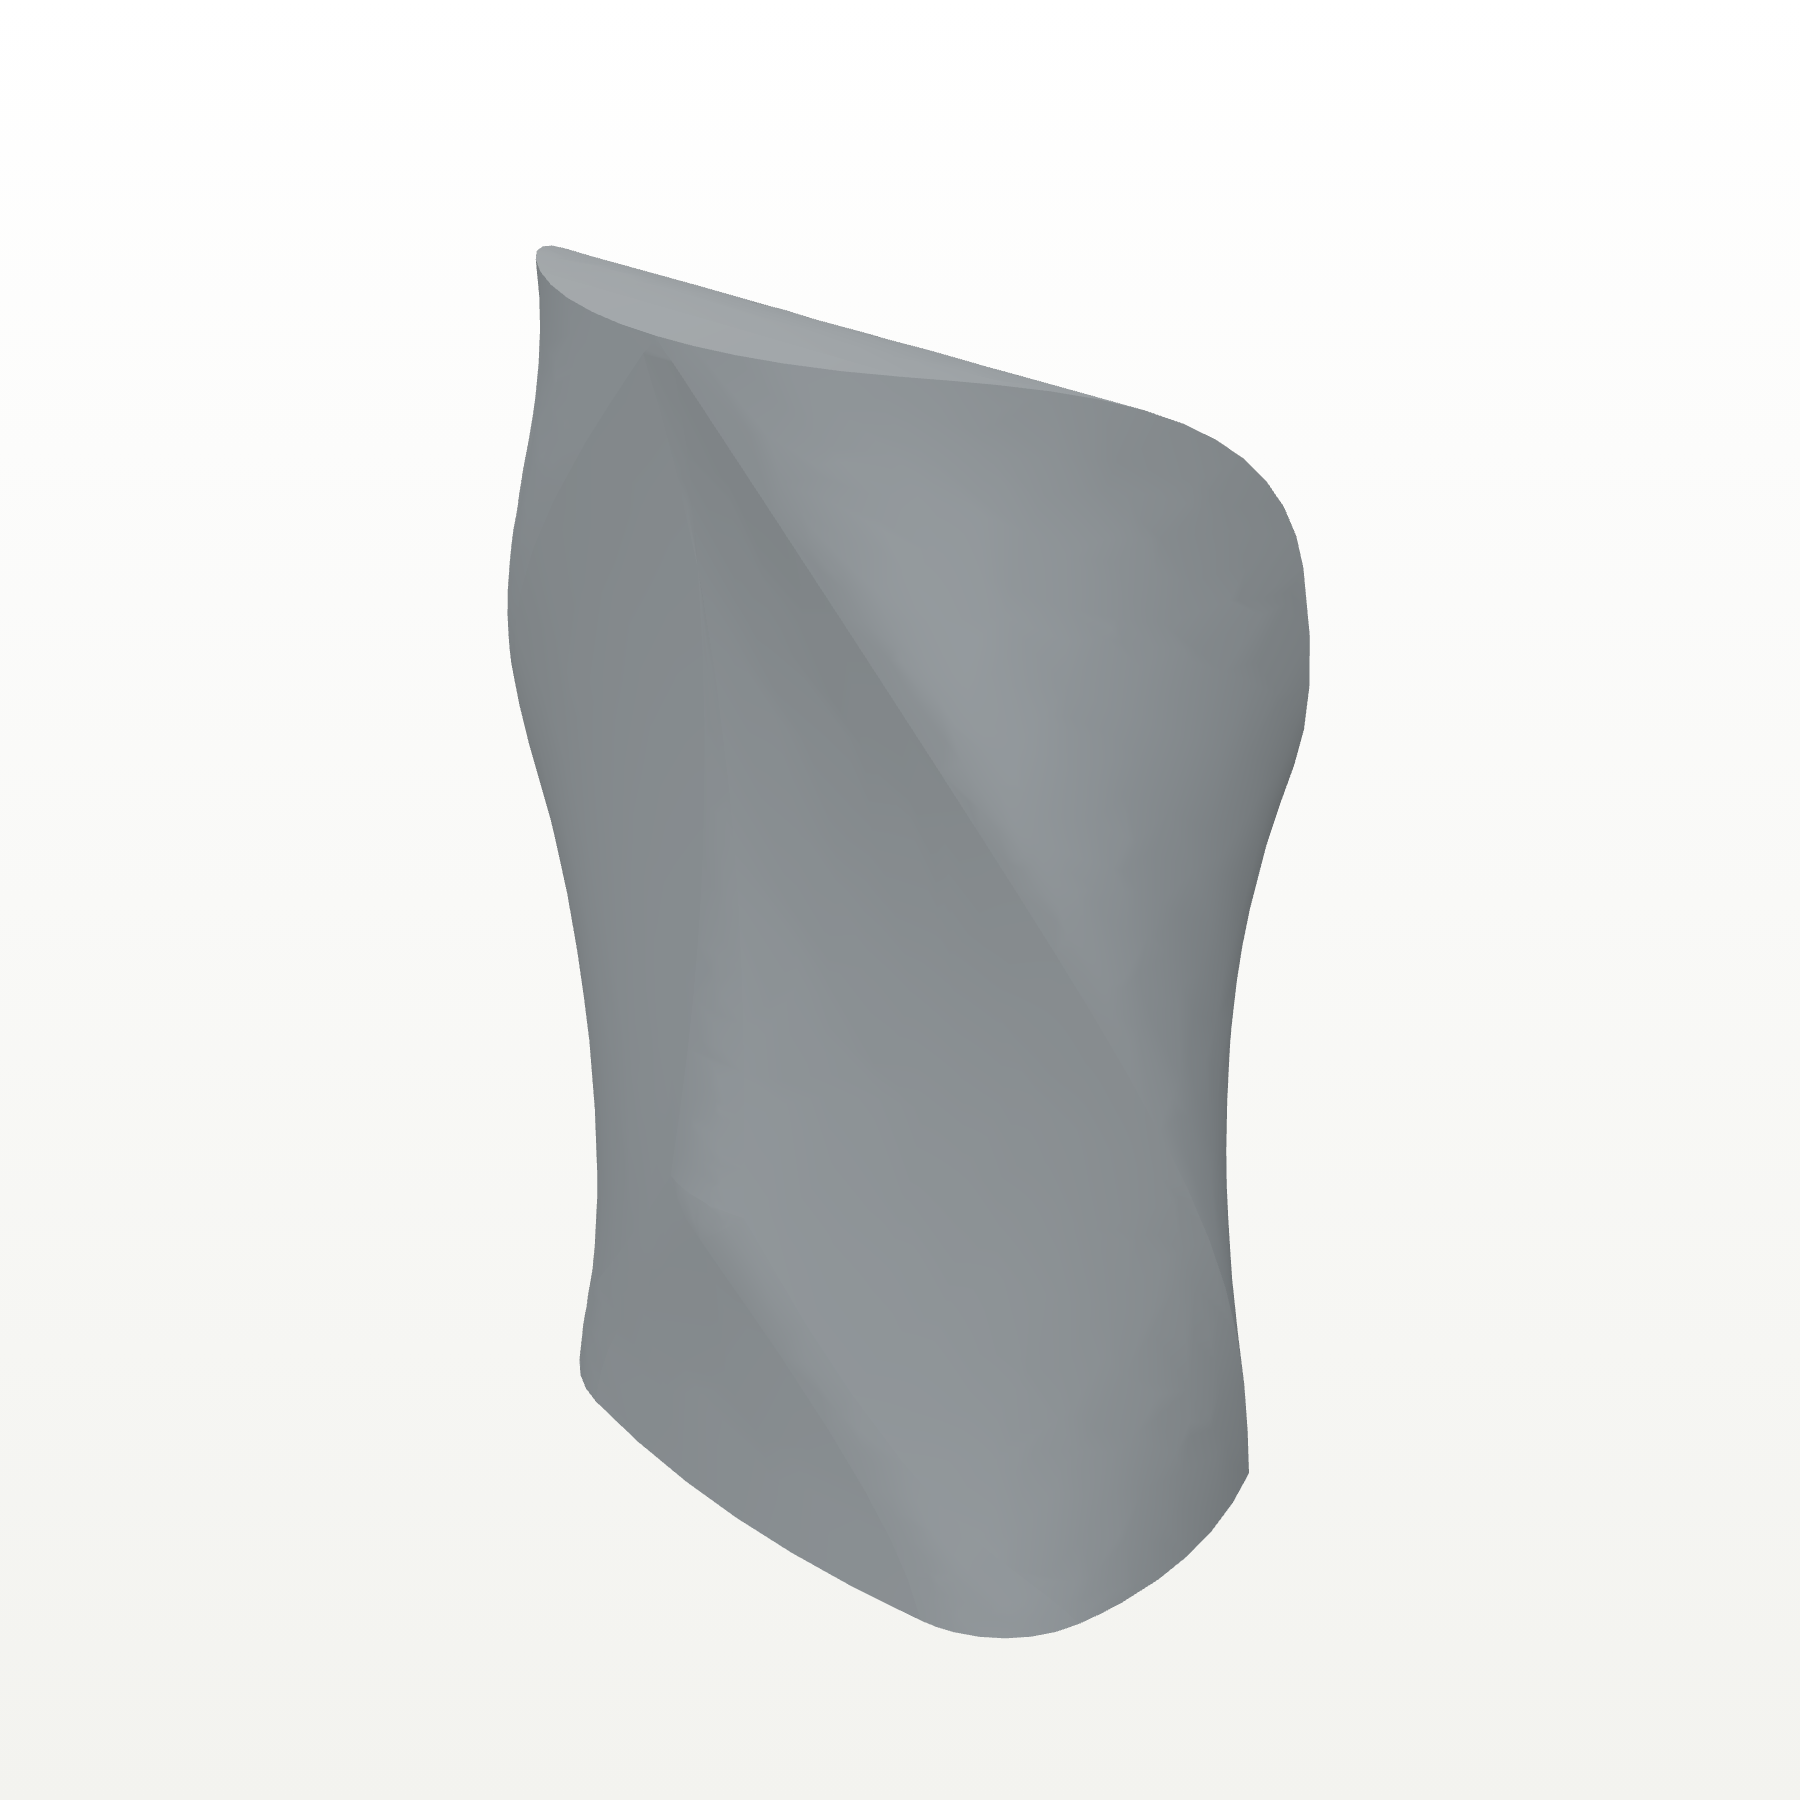
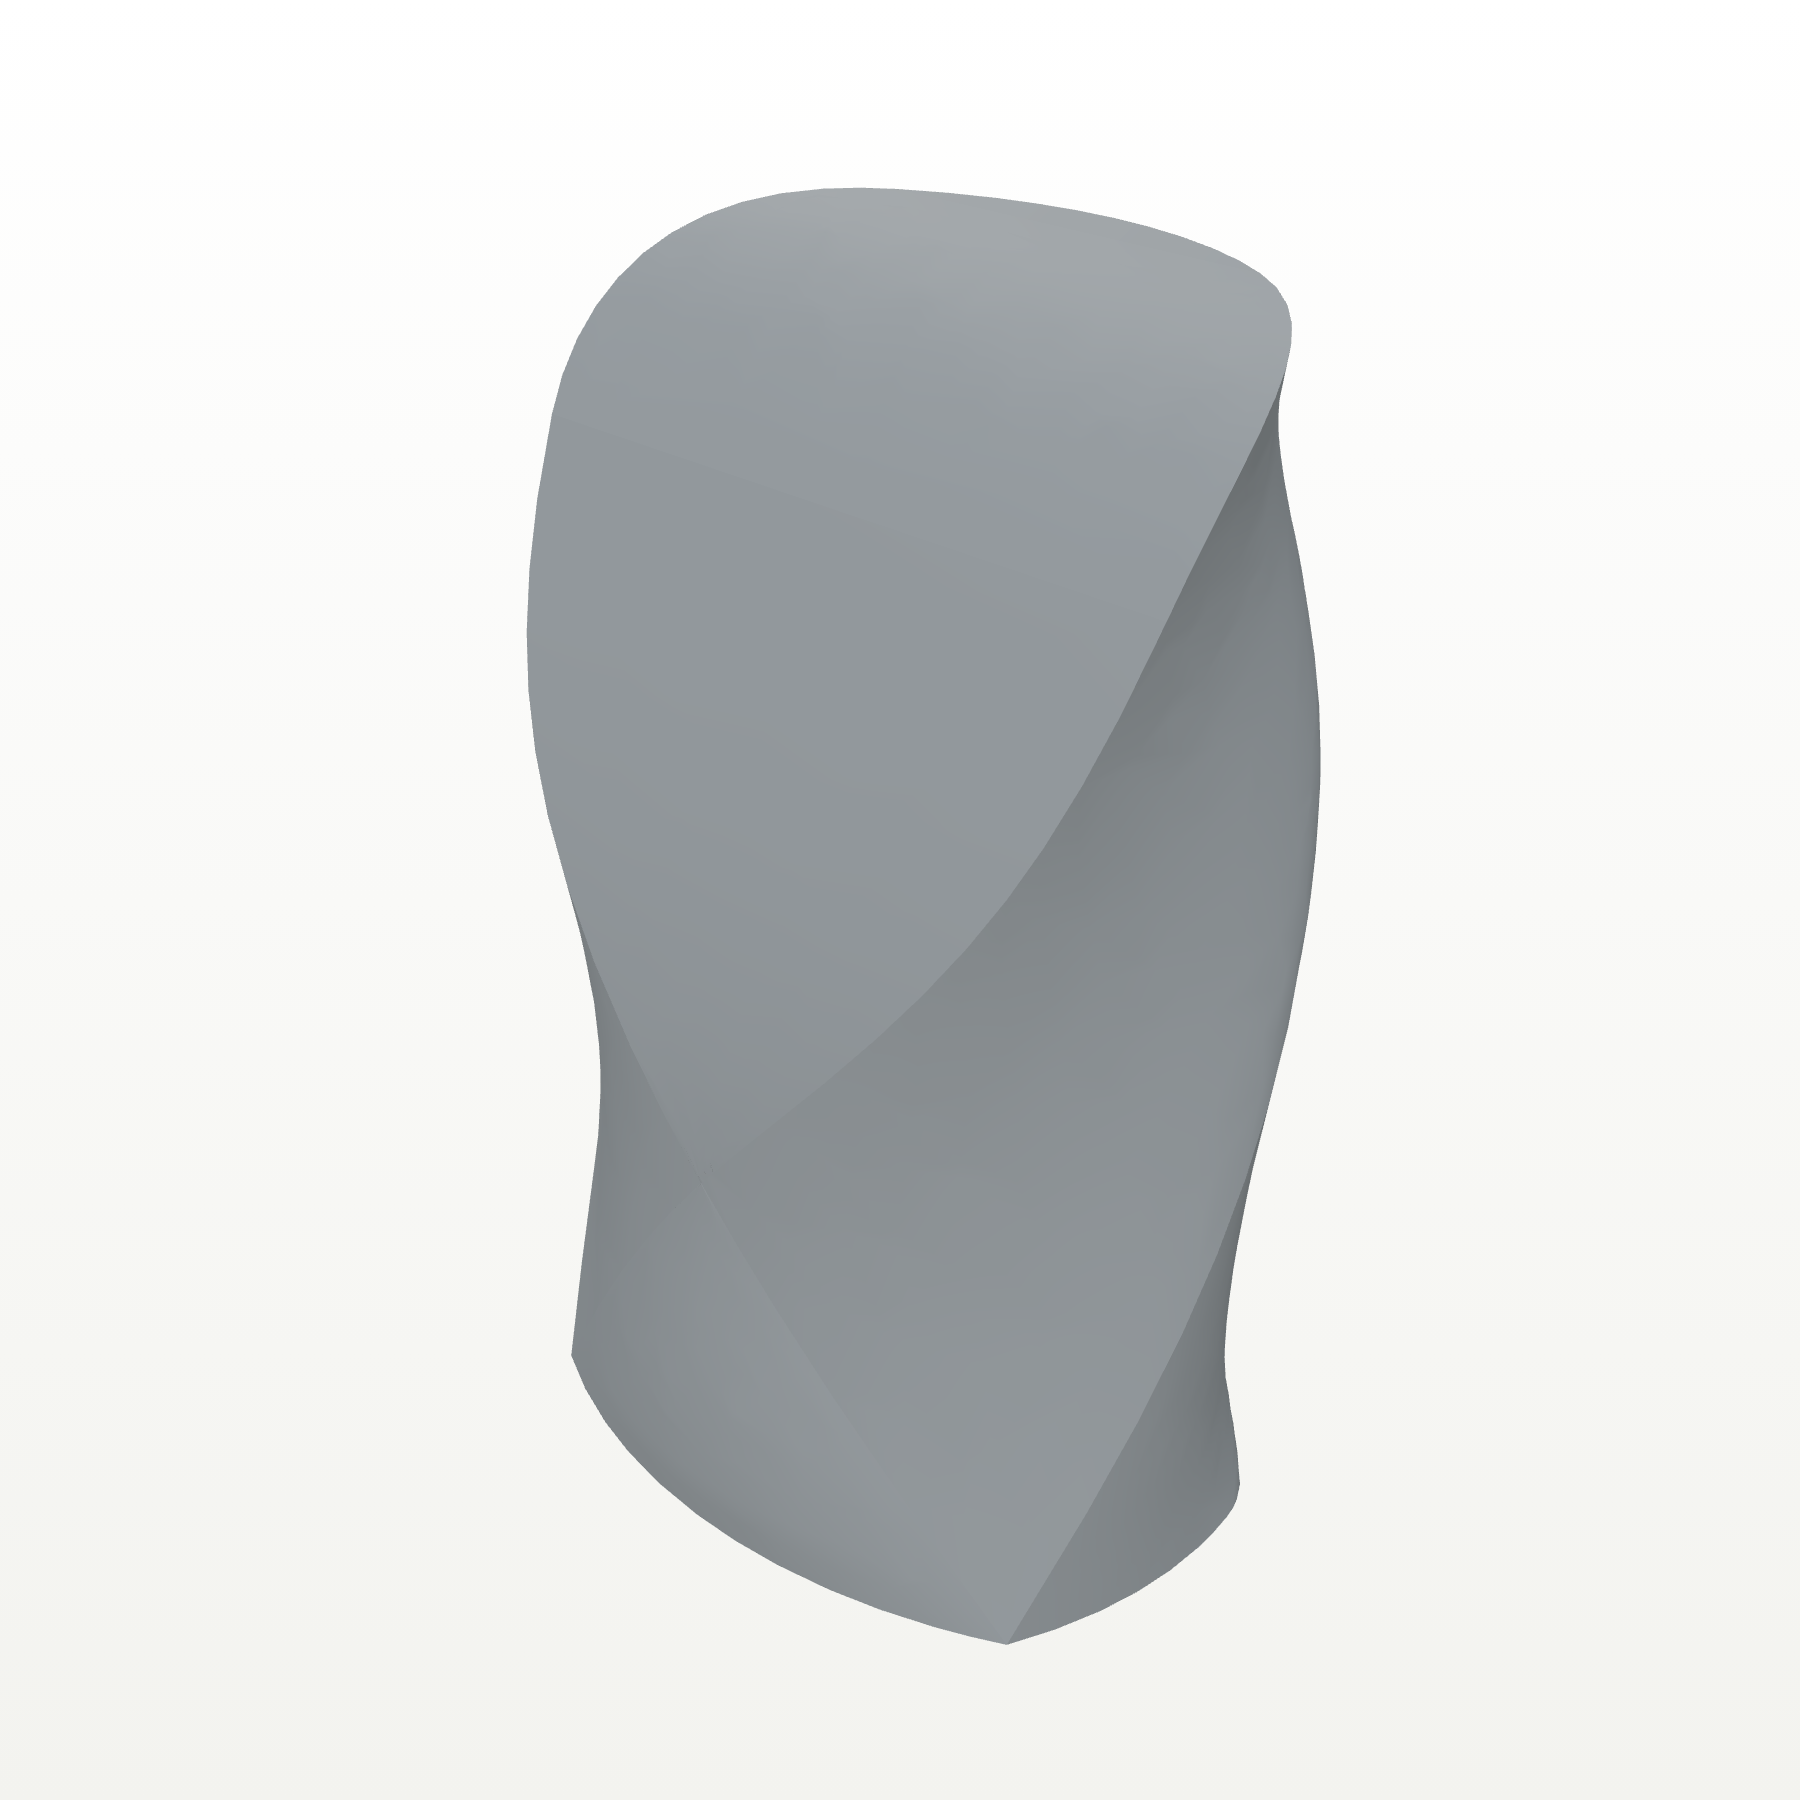
Fix bag 11 and 12 thumbnail orientation

diff --git a/timber-ridge-daypack-development-clean/thumbnail-viewer.html b/timber-ridge-daypack-development-clean/thumbnail-viewer.html
@@ -63,6 +63,7 @@
     const app = document.getElementById('app');
     const params = new URLSearchParams(window.location.search);
     const modelParam = params.get('model');
+    const rotateYDeg = Number(params.get('rotateYDeg') || '180');
     const zoom = Number(params.get('zoom') || '1.42');
 
     const renderer = new THREE.WebGLRenderer({ antialias: true, alpha: true, preserveDrawingBuffer: true });
@@ -173,7 +174,7 @@
         });
 
         group.rotation.x = -Math.PI / 2;
-        group.rotateOnWorldAxis(new THREE.Vector3(0, 1, 0), Math.PI);
+        group.rotateOnWorldAxis(new THREE.Vector3(0, 1, 0), THREE.MathUtils.degToRad(rotateYDeg));
         scene.add(group);
         fitCameraToObject(group);
         renderer.render(scene, camera);

diff --git a/timber-ridge-daypack-development-clean/index.html b/timber-ridge-daypack-development-clean/index.html
@@ -1374,7 +1374,8 @@
       });
 
       group.rotation.x = -Math.PI / 2;
-      group.rotateOnWorldAxis(new THREE.Vector3(0, 1, 0), Math.PI);
+      const rotateYDeg = Number.isFinite(Number(model.rotateYDeg)) ? Number(model.rotateYDeg) : 180;
+      group.rotateOnWorldAxis(new THREE.Vector3(0, 1, 0), THREE.MathUtils.degToRad(rotateYDeg));
       return group;
     }
 
